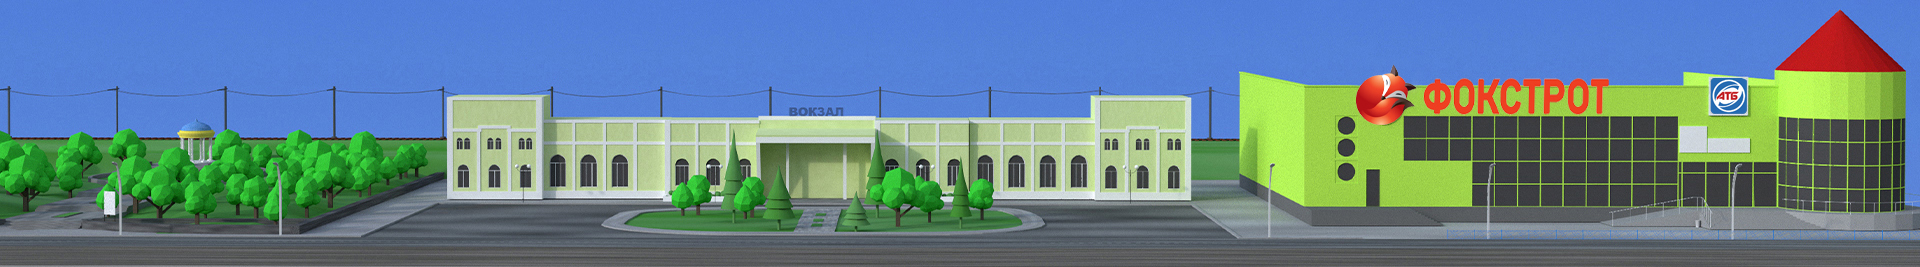
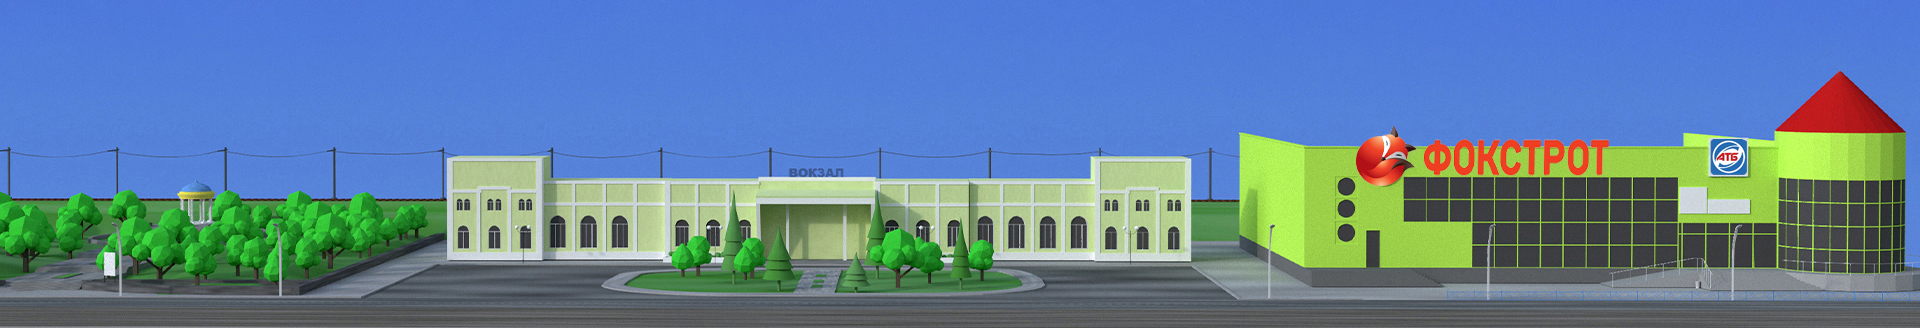
1

diff --git a/VozCity/index.html b/VozCity/index.html
@@ -34,7 +34,7 @@
 <div class="bsnav-mobile-overlay"></div>
 <div class="navbar"></div>
 </div>
-<div id="carouselExampleSlidesOnly" class="carousel slide" data-ride="carousel">
+<div id="carouselExampleSlidesOnly" class="carousel slide city-slide" data-ride="carousel">
 <div class="carousel-inner">
 <div class="carousel-item active">
 <img src="img/city.jpg" class="d-block w-100" alt="...">
@@ -110,23 +110,28 @@
 <div class="container mt-6">
 <div class="card-deck">
 <div class="card">
+<div class="taglist">
+<a href="#" class="tag">Вознесенск</a>
+<a href="#" class="tag">Криминал</a>
+<a href="#" class="tag">ДТП</a>
+</div>
 <img src="https://mayupravo.com/share/article/ev0gm86z3f.jpg" class="card-img-top" alt="...">
 <div class="card-body">
-<h5 class="card-title">Смертельное ДТП в Вознесенке: Ford совершил наезд на велосипедиста</h5>
+<a href="#"><h5 class="card-title">Смертельное ДТП в Вознесенке: Ford совершил наезд на велосипедиста</h5></a>
 <p class="card-text">Сьогодні, 9 липня, у Вознесенську на вулиці Михайлівській сталася ДТП: автомобіль Ford здійснив наїзд на велосипедиста.</p>
 </div>
 </div>
 <div class="card">
 <img src="https://mayupravo.com/share/article/96k7fwuf48.jpg" class="card-img-top" alt="...">
 <div class="card-body">
-<h5 class="card-title">У Вознесенську триває безкоштовна стерилізація тварин</h5>
+<a href="#"><h5 class="card-title">У Вознесенську триває безкоштовна стерилізація тварин</h5></a>
 <p class="card-text">В рамках заходів по зменшенню кількості безпритульних тварин у Вознесенській територіальній громаді проводиться стерилізація тварин за кошти місцевого бюджету.</p>
 </div>
 </div>
 <div class="card">
 <img src="https://mayupravo.com/share/article/9au2p95cuz.jpg" class="card-img-top" alt="...">
 <div class="card-body">
-<h5 class="card-title">У Вознесенську працює інспектор з паркування</h5>
+<a href="#"><h5 class="card-title">У Вознесенську працює інспектор з паркування</h5></a>
 <p class="card-text">В Україні до теперішнього часу практично не регулювалася сфера паркування. Часто водії залишають транспортні засоби на тротуарах, проїжджих частинах або на коліях. Це ускладнює рух та створює затори.</p>
 </div>
 </div>

diff --git a/VozCity/css/main.css b/VozCity/css/main.css
@@ -25,13 +25,18 @@ body {font-family: 'Roboto', sans-serif;font-size: 0.9rem;color: #5e6d77;backgro
 .navbar-toggler .navbar-toggler-icon, .navbar-toggler .navbar-toggler-icon::after, .navbar-toggler .navbar-toggler-icon::before {background-color: #527fda;}
 .carousel-item {background: #000;}
 .banner-news {filter: opacity(50%);}
-.carousel-caption .tag {background: rgba(0, 132, 255, 0.5);padding: 7px 15px;margin-right: 5px;font-size: 0.7rem;color: #fff;border-radius: 50px;}
-.carousel-caption .tag:hover {background: rgba(0, 132, 255, 0.7);}
+.carousel-caption .tag {background: rgba(0, 0, 0, 0.5);padding: 7px 15px;margin-right: 5px;font-size: 0.7rem;color: #fff;border-radius: 50px;}
+.carousel-caption .tag:hover {background: rgba(0, 0, 0, 0.7);}
 .carousel-caption h4, .carousel-caption h4:hover {margin-top: 10px;color: #fff;}
 .carousel-caption a {text-decoration: none;}
 .mt-6 {margin-top: 30px;}
 .card-img-top {border-radius: 0px;}
 .card {border-radius: 0px;border: 0px;box-shadow: 0px 5px 15px 0 rgba(0,0,0,.07);}
+.card a {color: #485258;}
+.card a:hover {color: #3a4146;text-decoration: none;}
+.card .taglist {position: absolute;margin-left: 10px;margin-top: 10px;}
+.card .tag {background: rgba(0, 0, 0, 0.5);padding: 5px 15px;margin-right: 5px;font-size: 0.6rem;color: #fff;border-radius: 50px;}
+.card .tag:hover {background: rgba(0, 0, 0, 0.7);color: #fff;}
 
 @media (max-width: 992px) { 
     .container {padding-right: 0px;padding-left: 0px;}
@@ -41,4 +46,5 @@ body {font-family: 'Roboto', sans-serif;font-size: 0.9rem;color: #5e6d77;backgro
     .carousel-caption {bottom: 0px;padding-bottom: 5px;}
     .carousel-caption .tag {padding: 2px 8px;font-size: 0.4rem;}
     .mt-6 {margin-top: 15px;}
+    .city-slide {padding-top: 61px;}
  }
